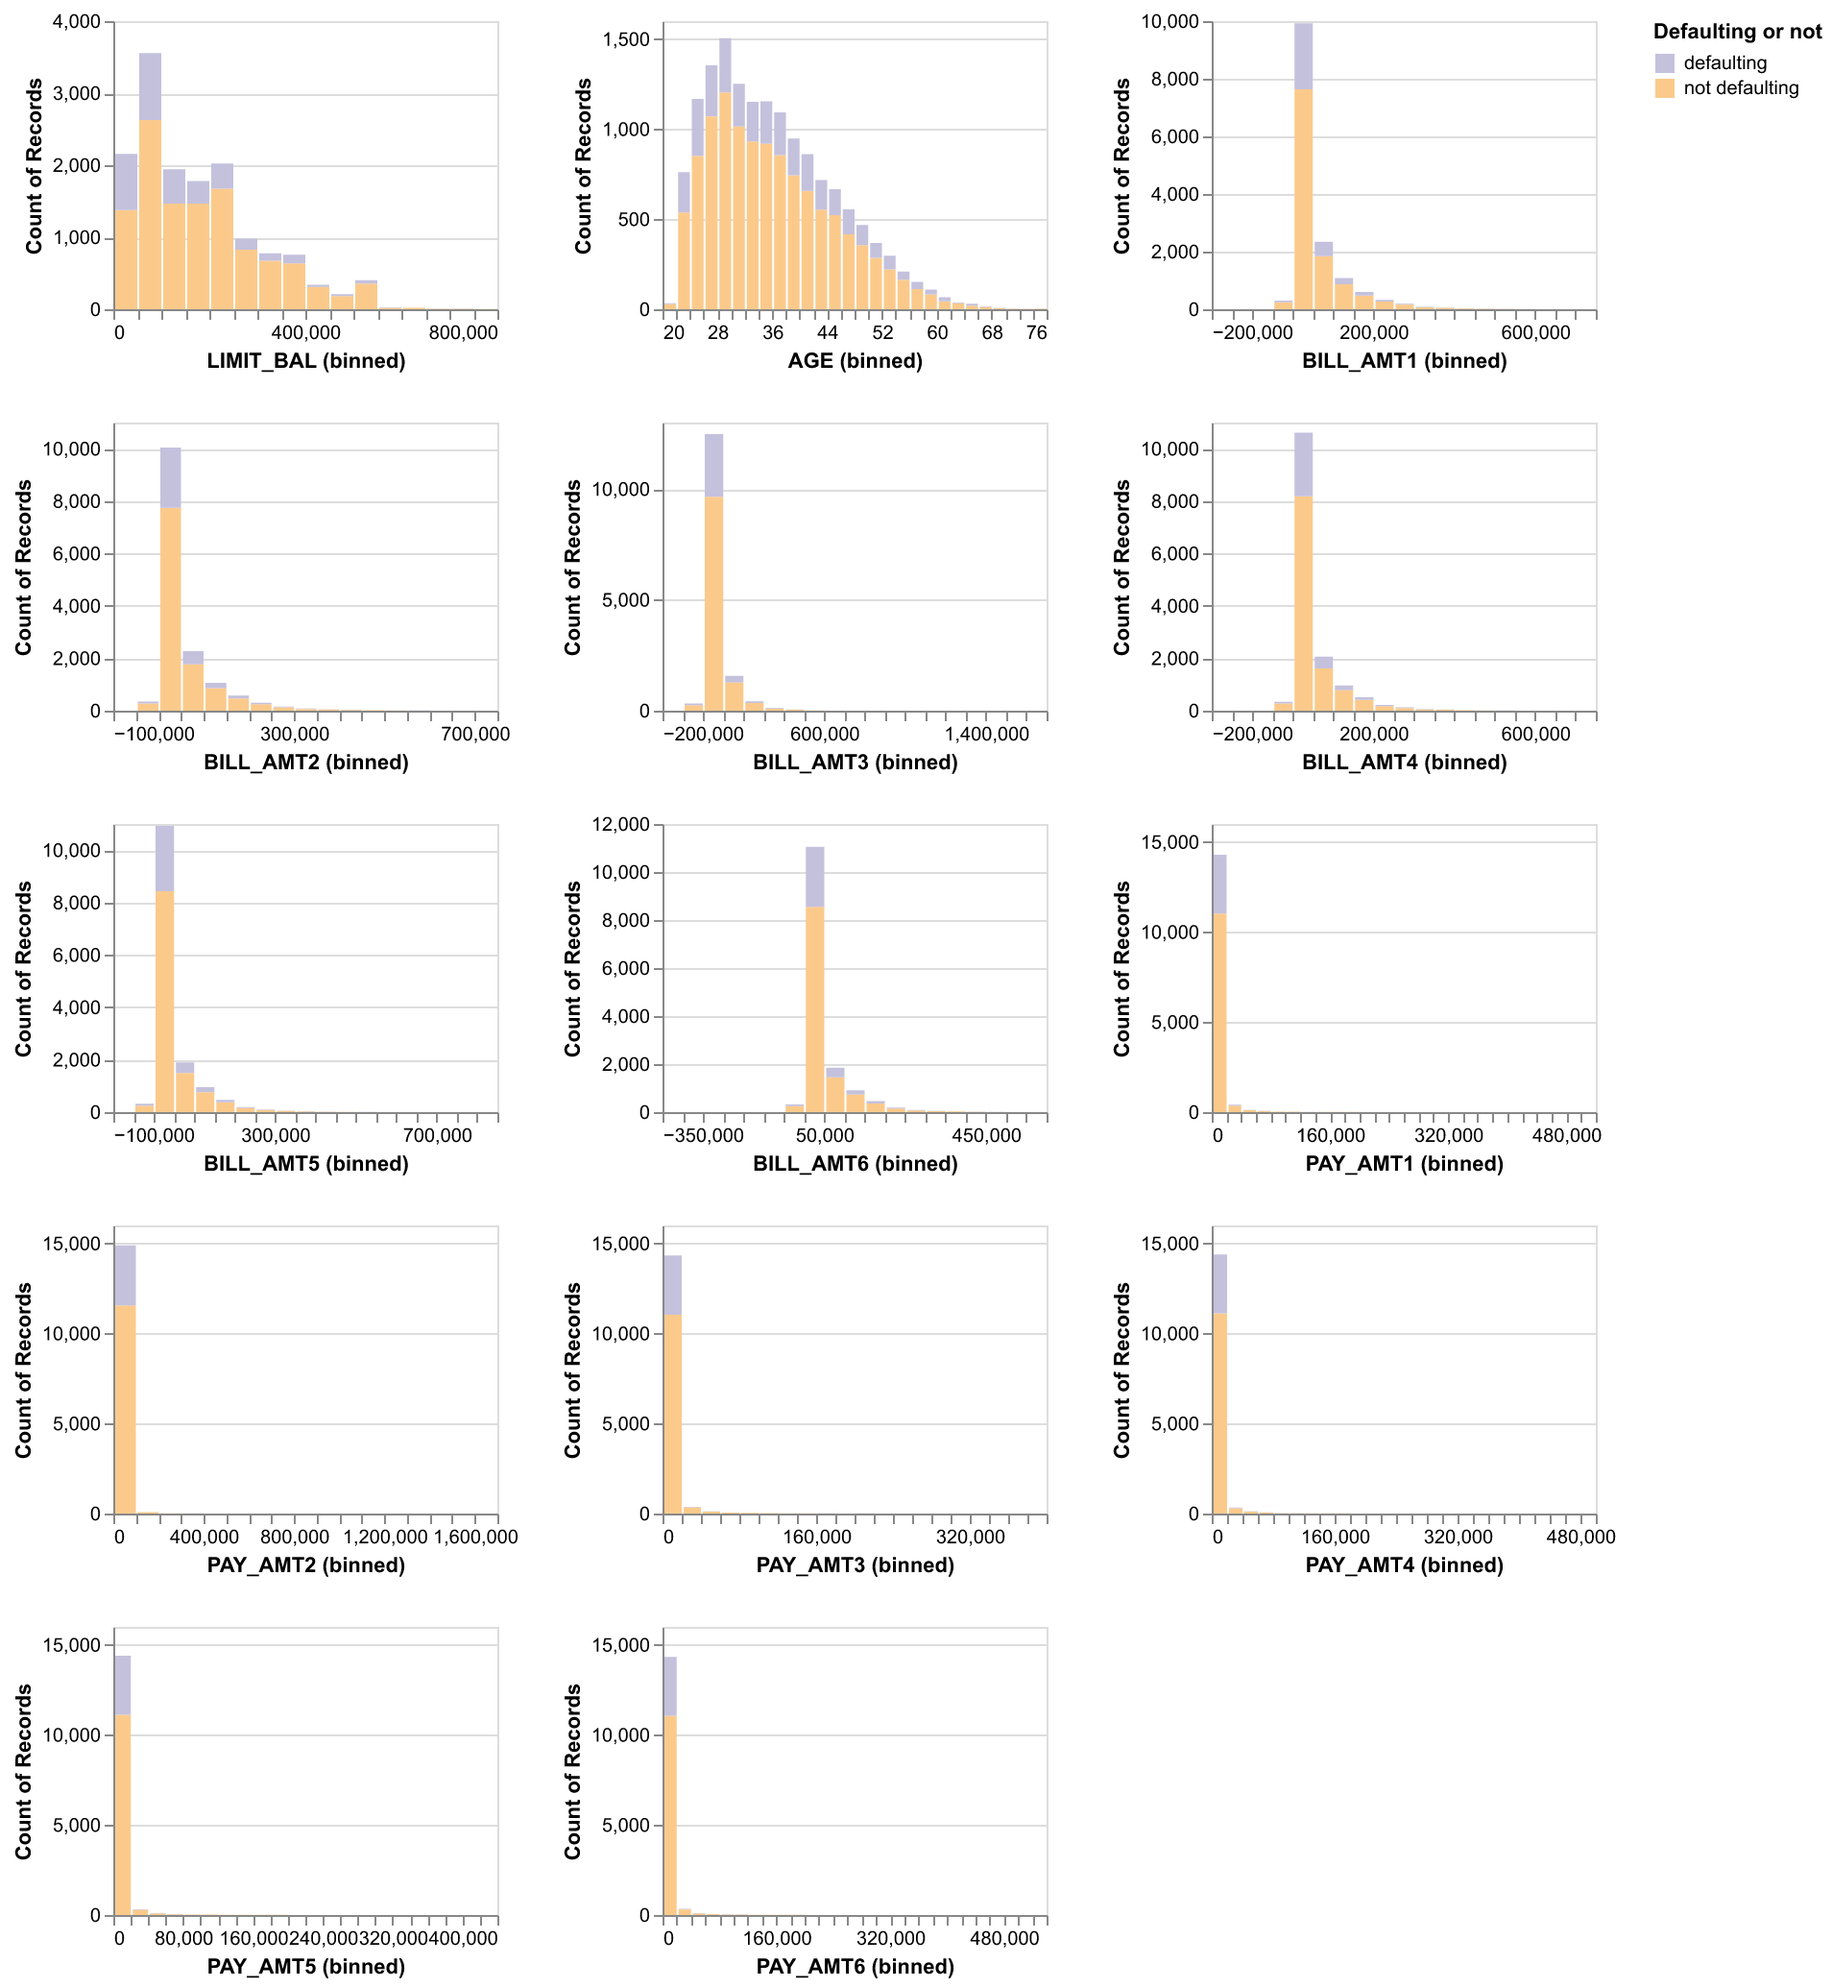
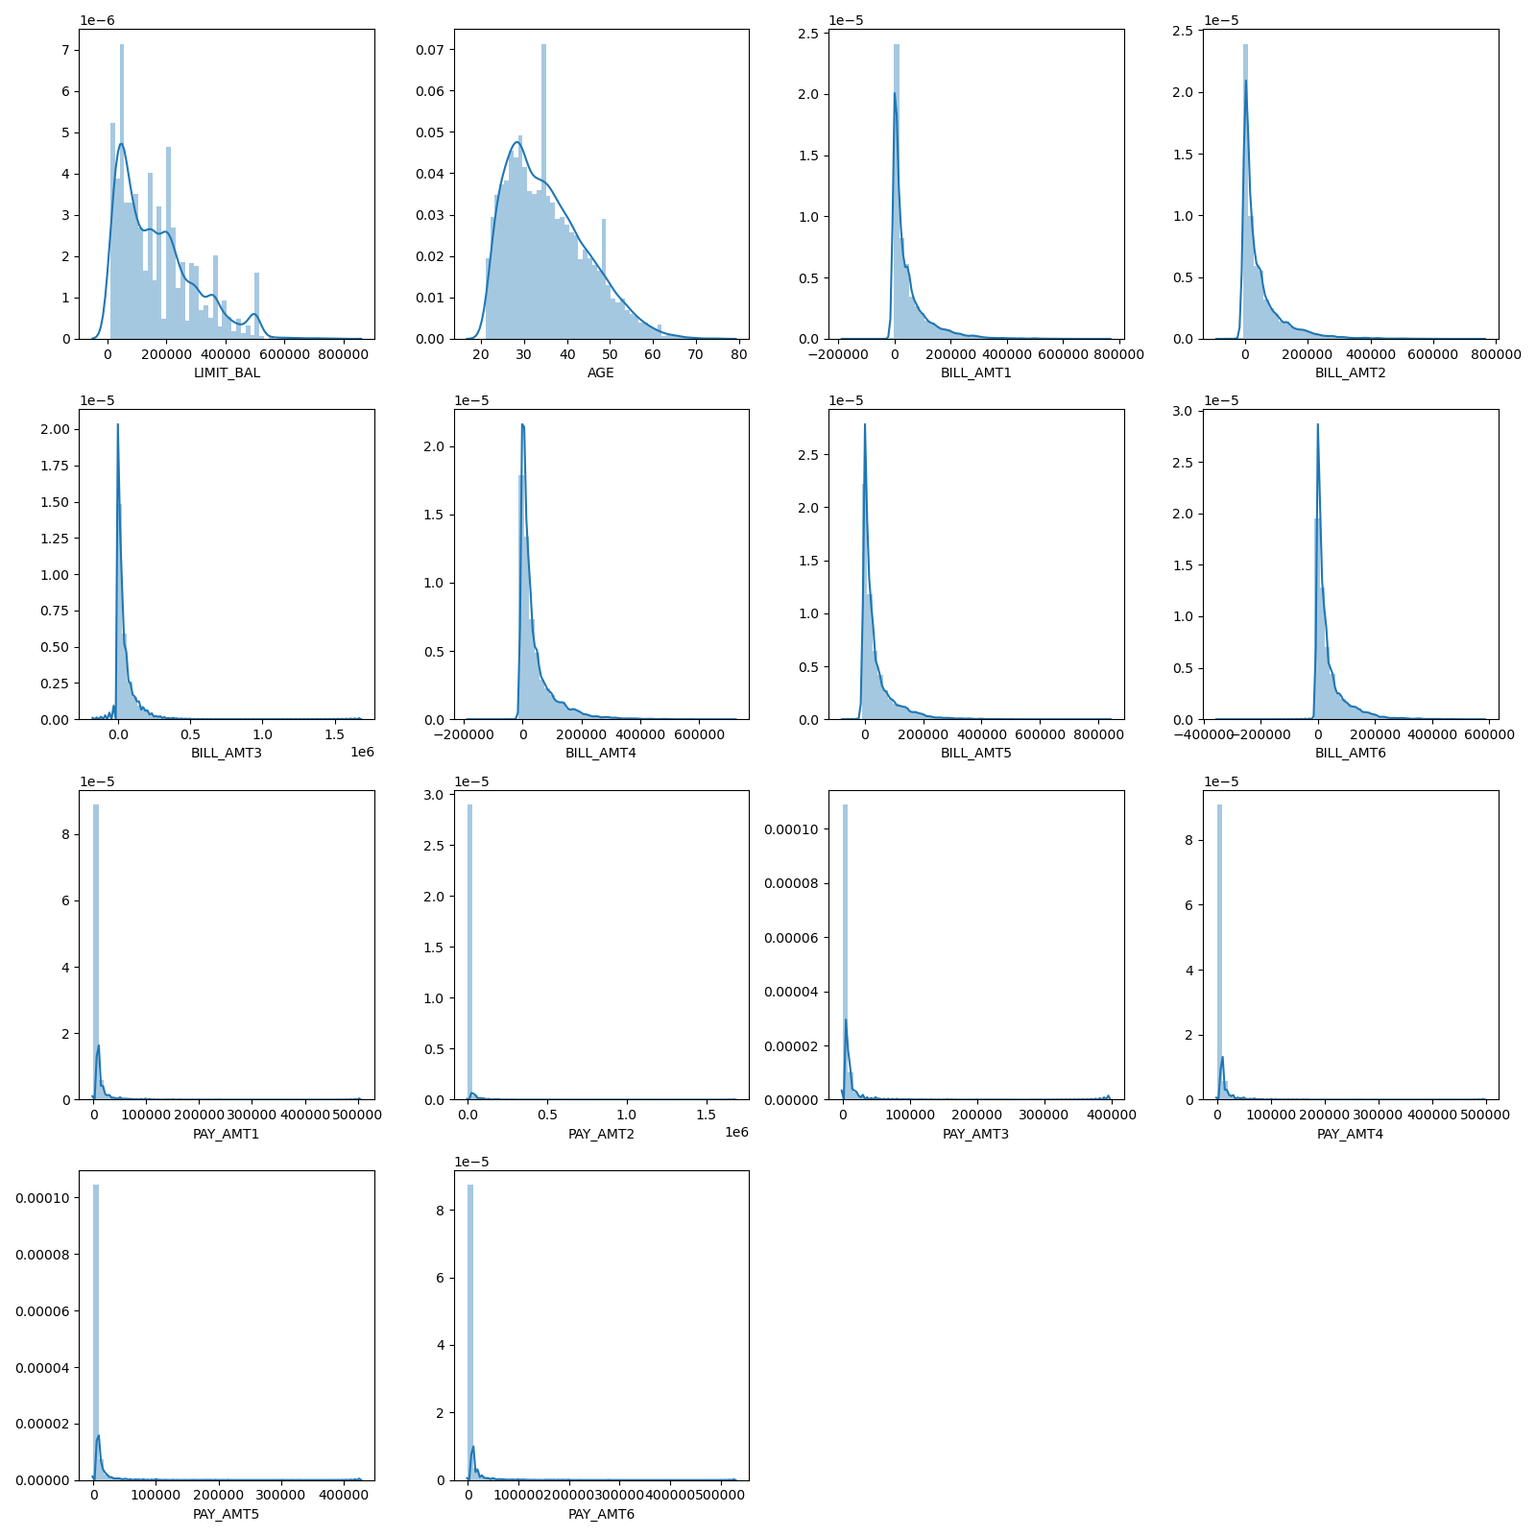
eda_script_plt

diff --git a/src/eda_script.py b/src/eda_script.py
@@ -19,20 +19,13 @@ python ./src/eda_script.py --processed_data_path "./data/processed/credit_train_
 import os
 from docopt import docopt
 import pandas as pd
-import altair as alt
 from sklearn.model_selection import train_test_split
 import warnings
 import os
-from altair_data_server import data_server
 import matplotlib.pyplot as plt
-import vl_convert as vlc
-
+import seaborn as sns
 warnings.filterwarnings("ignore")
-# Save a vega-lite spec and a PNG blob for each plot in the notebook
-alt.renderers.enable("mimetype")
-# Handle large data sets without embedding them in the notebook
 
-alt.data_transformers.disable_max_rows()
 
 opt = docopt(__doc__)
 
@@ -118,15 +111,14 @@ def main(processed_data_path, eda_result_path):
     ##test assert if pie chart
     assert plt is not None
 
+
+
     # heatmap
-    corr_df = credit_df.corr().stack().reset_index(name="corr")
-    corr_plot = (
-        alt.Chart(corr_df, title="Correlation Graph")
-        .mark_rect()
-        .encode(x="level_0", y="level_1", color=alt.Color("corr"))
-        .properties(width=400, height=400)
-    )
-    save_chart(corr_plot, "./" + eda_result_path + "/eda/images/corr_plot.png", 2)
+    # corr_df = credit_df.corr().stack().reset_index(name="corr")
+    
+    plt.figure(figsize=(30, 30))
+    corr_plot=sns.heatmap(credit_df.corr(), annot=True).get_figure()
+    corr_plot.savefig("./" + eda_result_path + "/eda/images/corr_plot.png")
 
     ##test assert if heatmap created
     assert corr_plot is not None
@@ -154,26 +146,19 @@ def main(processed_data_path, eda_result_path):
         "PAY_AMT5",
         "PAY_AMT6",
     ]
-    numeric_dis = (
-        alt.Chart(credit_df)
-        .mark_bar()
-        .encode(
-            alt.X(alt.repeat(), type="quantitative", bin=alt.Bin(maxbins=30)),
-            y="count()",
-            color=alt.Color(
-                "Defaulting or not", scale=alt.Scale(scheme="purpleorange")
-            ),
-        )
-        .properties(width=200, height=150)
-        .repeat(num_cols, columns=3)
-    )
-    save_chart(numeric_dis, "./" + eda_result_path + "/eda/images/numeric_dis.png", 2)
-
-    ##test assert if numeric_dis created
+    fig = plt.figure(figsize=(16, 16))
+    index_num=0
+    for num_col in num_cols:
+        index_num+=1
+        ax = fig.add_subplot(4, 4, index_num)
+        sns.distplot(credit_df[num_col])
+        plt.tight_layout()
+    numeric_dis=ax
+    plt.savefig("./" + eda_result_path + "/eda/images/numeric_dis.png")
     assert numeric_dis is not None
 
     # categorical dis
-    cat_col = [
+    cat_cols = [
         "EDUCATION",
         "MARRIAGE",
         "SEX",
@@ -184,20 +169,16 @@ def main(processed_data_path, eda_result_path):
         "PAY_5",
         "PAY_6",
     ]
-    categorical_dis = (
-        alt.Chart(credit_df)
-        .mark_bar()
-        .encode(
-            alt.X(alt.repeat(), type="quantitative", bin=alt.Bin(maxbins=20)),
-            y="count()",
-            color=alt.Color("Defaulting or not", scale=alt.Scale(scheme="dark2")),
-        )
-        .properties(width=200, height=150)
-        .repeat(cat_col, columns=3)
-    )
-    save_chart(
-        categorical_dis, "./" + eda_result_path + "/eda/images/categorical_dis.png", 2
-    )
+    fig = plt.figure(figsize=(16, 16))
+    index_cat=0
+    for cat_col in cat_cols:
+        index_cat+=1
+        ay = fig.add_subplot(4, 4, index_cat)
+        sns.distplot(credit_df[cat_col])
+        plt.tight_layout()
+    categorical_dis=ay
+    plt.savefig("./" + eda_result_path + "/eda/images/categorical_dis.png")
+
 
     ##test assert if categorical dis created
     assert categorical_dis is not None
